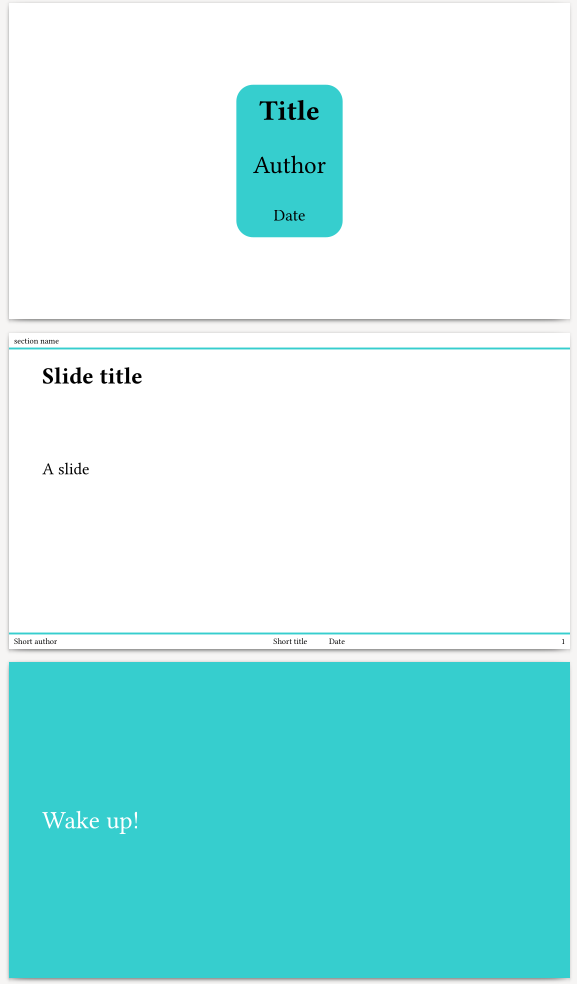
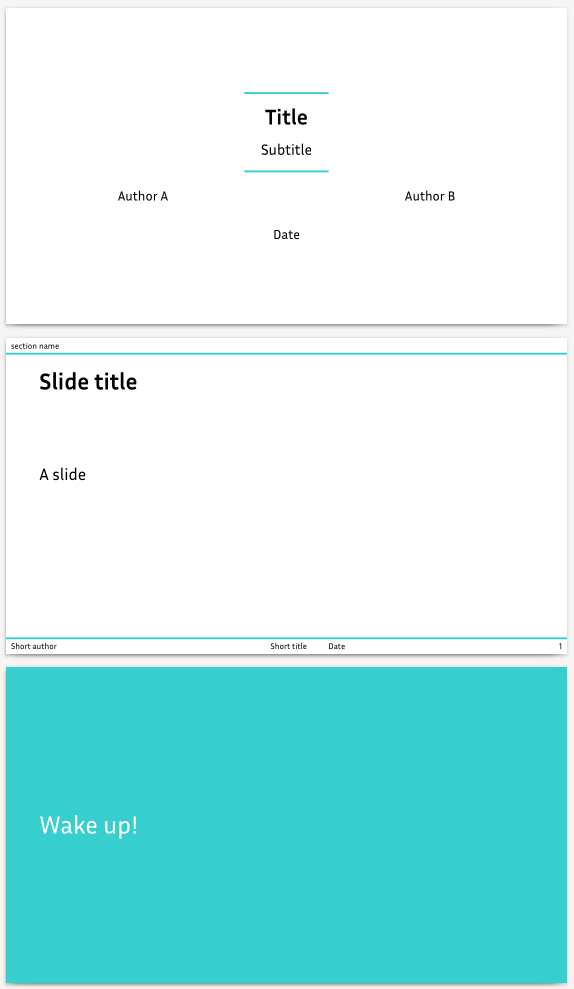
Adapt themes

diff --git a/book/src/theme-gallery/index.md b/book/src/theme-gallery/index.md
@@ -25,7 +25,7 @@ You can specify it explicitly by referring to `slides-default-theme`:
 #import "slides.typ": *
 
 #show: slides.with(
-    author: "Author", short-author: "Short author",
+    authors: ("Author A", "Author B"), short-authors: "Short author",
     title: "Title", short-title: "Short title", subtitle: "Subtitle",
     date: "Date",
 )
@@ -71,7 +71,7 @@ It features a dominant partition of space into a bright and a dark side.
 #import "themes/bipartite.typ": *
 
 #show: slides.with(
-    author: "Author", short-author: "Short author",
+    authors: ("Author A", "Author B"), short-authors: "Short author",
     title: "Title", short-title: "Short title", subtitle: "Subtitle",
     date: "Date",
     theme: bipartite-theme(),
